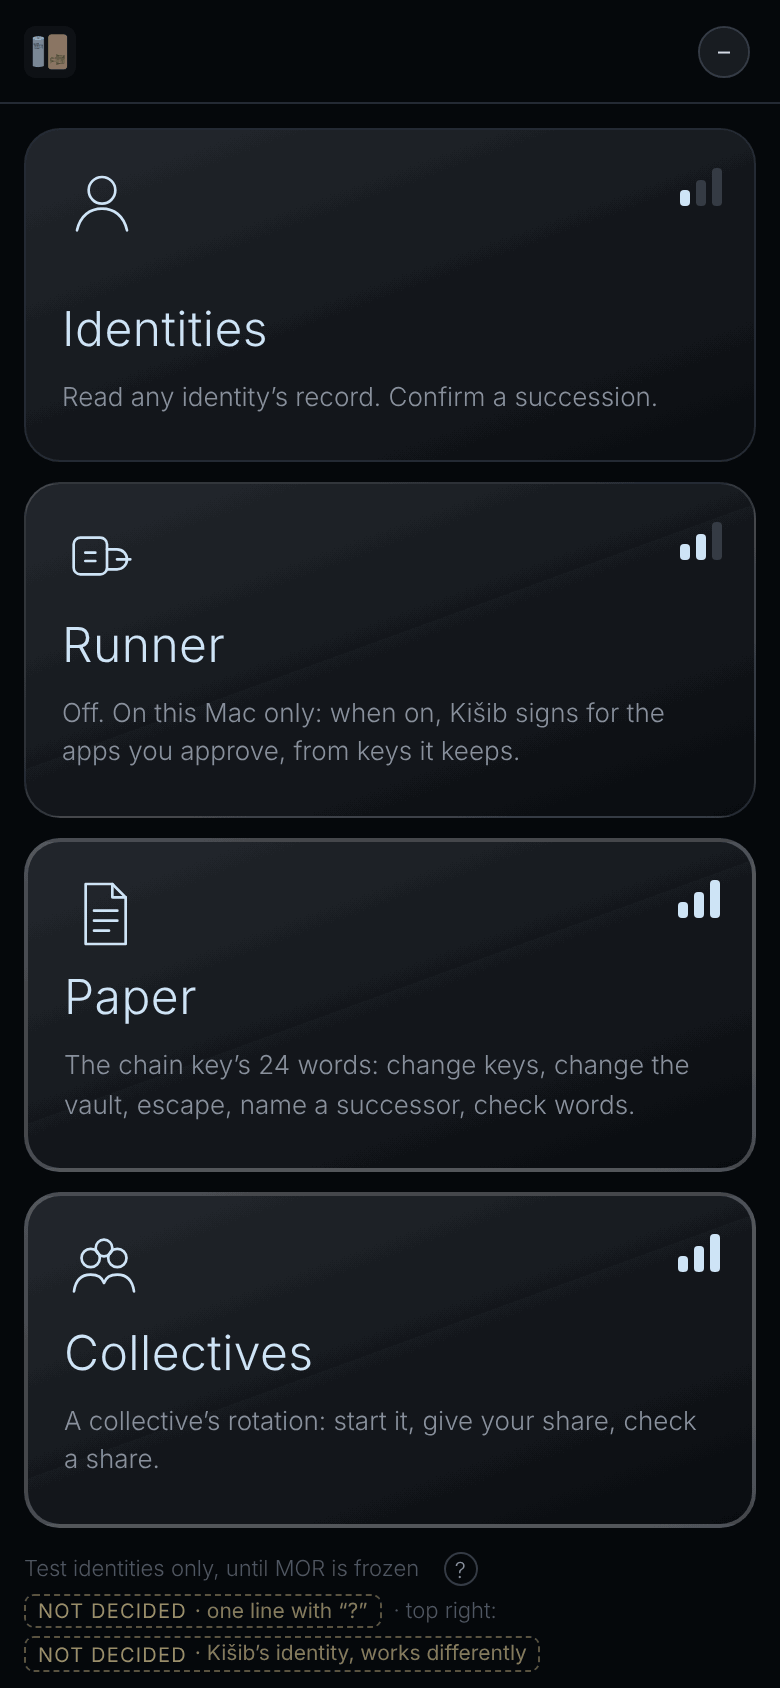
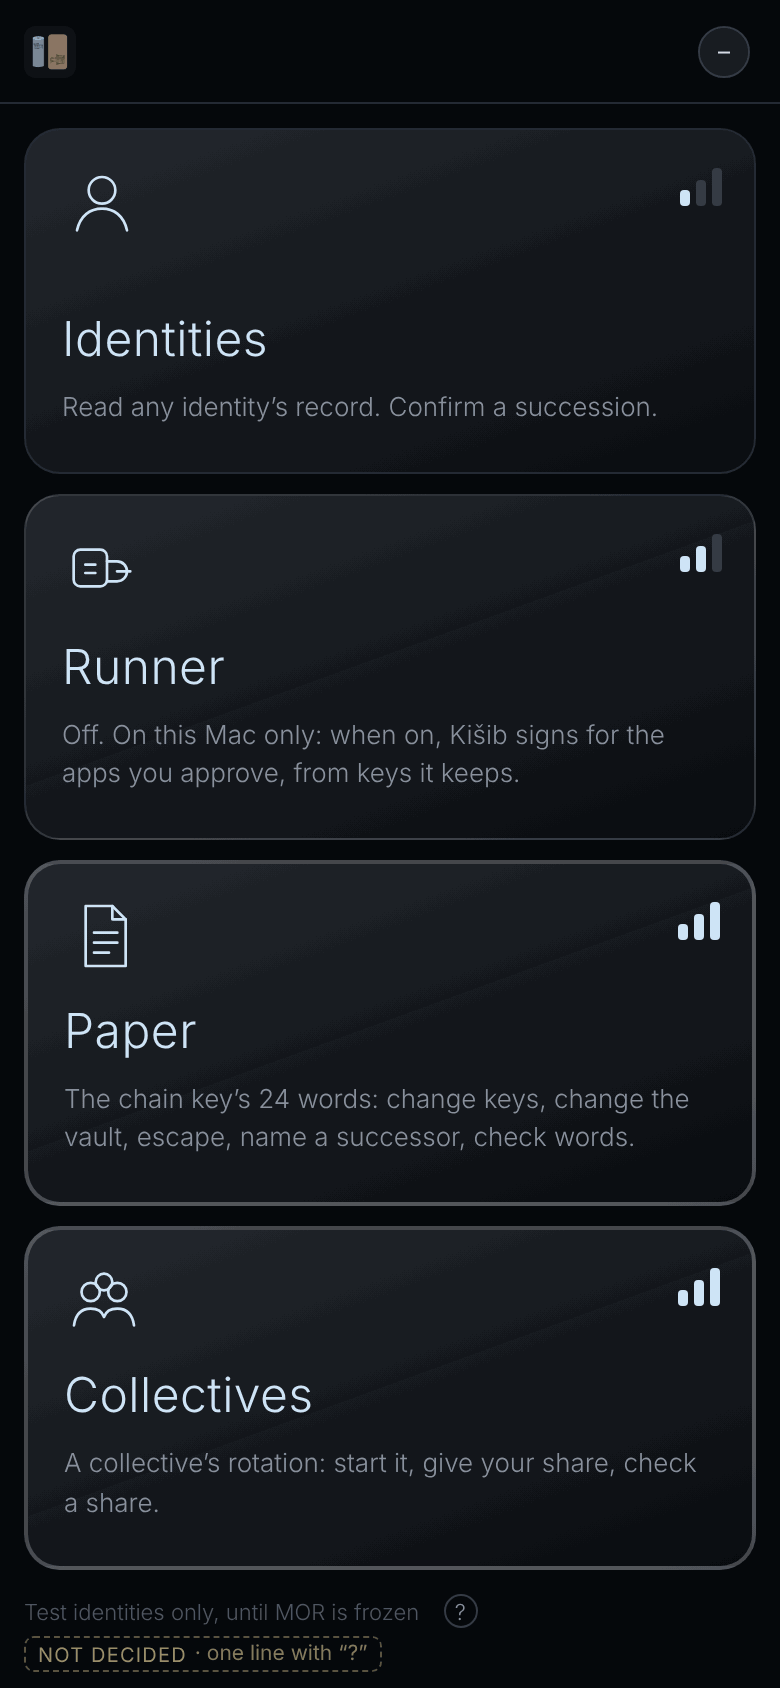
Kišib's top right decided: only the runner holds an ID
Nobody, allegedly, on question 4 of the mockups report (21 October 2026):
"Kišib is different, the only place where an ID can be held is the new
runner." As drawn: "Holds nothing" while the runner is off, the runner's
identities when it is on. The tag on Kišib's home is removed and the report
records the answer.

Claude-Session: https://claude.ai/code/session_01QoHu5J9KBXykGPCHZ7ZQVy

diff --git a/docs/design/mockups/kishib-home.html b/docs/design/mockups/kishib-home.html
@@ -3,5 +3,5 @@
 <title>Kišib: Home: the four tiles (mockup)</title><link rel="stylesheet" href="suite.css"></head>
 <body class="kishib"><div class="win">
 <header class="top"><div class="app"><img src="icons/kishib.png" alt=""><span class="nm">Kišib</span></div><span class="grow"></span><span class="grow"></span><button class="me"><span class="n">Holds nothing</span><span class="s">runner off</span><span class="dot alt">–</span></button></header><div class="home"><div class="tile d1"><svg class="ic" viewBox="0 0 48 48" fill="none" stroke="currentColor" stroke-width="1.6" stroke-linecap="round" stroke-linejoin="round"><circle cx="24" cy="17" r="8"/><path d="M9 41c2-9 8-13 15-13s13 4 15 13"/></svg><span class="dm l1" title="danger 1 of 3"><i></i><i></i><i></i></span><h2>Identities</h2><p>Read any identity’s record. Confirm a succession.</p></div><div class="tile d2"><svg class="ic" viewBox="0 0 48 48" fill="none" stroke="currentColor" stroke-width="1.6" stroke-linecap="round" stroke-linejoin="round"><rect x="7" y="13" width="20" height="22" rx="4"/><path d="M27 20h6a6 6 0 0 1 0 12h-6M33 26h8M14 22h6M14 27h6"/></svg><span class="dm l2" title="danger 2 of 3"><i></i><i></i><i></i></span><h2>Runner</h2><p>Off. On this Mac only: when on, Kišib signs for the apps you approve, from keys it keeps.</p></div><div class="tile d3"><svg class="ic" viewBox="0 0 48 48" fill="none" stroke="currentColor" stroke-width="1.6" stroke-linecap="round" stroke-linejoin="round"><path d="M13 6h16l8 8v28H13z"/><path d="M29 6v8h8M18 22h14M18 28h14M18 34h9"/></svg><span class="dm l3" title="danger 3 of 3"><i></i><i></i><i></i></span><h2>Paper</h2><p>The chain key’s 24 words: change keys, change the vault, escape, name a successor, check words.</p></div><div class="tile d3"><svg class="ic" viewBox="0 0 48 48" fill="none" stroke="currentColor" stroke-width="1.6" stroke-linecap="round" stroke-linejoin="round"><circle cx="16" cy="18" r="5.5"/><circle cx="32" cy="18" r="5.5"/><circle cx="24" cy="12" r="5"/><path d="M6 38c1-7 5-10 10-10s7 2 8 5c1-3 3-5 8-5s9 3 10 10"/></svg><span class="dm l3" title="danger 3 of 3"><i></i><i></i><i></i></span><h2>Collectives</h2><p>A collective’s rotation: start it, give your share, check a share.</p></div></div>
-<div class="home-note">Test identities only, until MOR is frozen <span class="help">?</span> <span class="nd">not decided<b>· one line with “?”</b></span> · top right: <span class="nd">not decided<b>· Kišib’s identity, works differently</b></span></div>
+<div class="home-note">Test identities only, until MOR is frozen <span class="help">?</span> <span class="nd">not decided<b>· one line with “?”</b></span></div>
 </div></body></html>

diff --git a/docs/design/mockups-report.md b/docs/design/mockups-report.md
@@ -80,7 +80,7 @@ Section 2 lists each one. Everything without a tag is the note's *decided* or *a
     - Ummia: Look 1, Discuss 1, Publish 2, Choose 2.
 12. Damgar's four tiles: **Waiting, Account, Lanes, Settings**. The note names three columns, and Settings survives the move of the clock and the node link. *Decided by Nobody, allegedly, 21 October 2026 (question 3): "Yes, Settings as the fourth tile. It's a lot more than what settings offer elsewhere." Tag removed.*
 13. Dub's three lenses: **Following · To you · Relay**, Relay third. *Decided by Nobody, allegedly, 21 October 2026 (question 1): "Yes, but relay should be the third option." Tag removed.*
-14. Kišib's identity at top right: "Holds nothing · runner off" while the runner is off. The runner's identities appear there when it is on.
+14. Kišib's identity at top right: "Holds nothing · runner off" while the runner is off. The runner's identities appear there when it is on. *Decided by Nobody, allegedly, 21 October 2026 (question 4): "Kišib is different, the only place where an ID can be held is the new runner." Tag removed.*
 15. Each column's parts, on every tile opened, are taken from today's functions (one quiet tag at the foot of each column).
 16. The tabs across a selected collective: Act · Members · Money · Keepers · To sign. The note's "sketch" is not in the repository.
 17. The bottom half of the act menu, per app. Rely and Anchor are in every app; Correct appears on one's own acts.
@@ -217,7 +217,7 @@ No function of today was dropped from the pictures. The decided removals are Dub
 1. **Dub's three lenses: are they Following, Relay and To you?** These are today's three filters, renamed only from "Everyone" to "Following". *Lean: yes.* **Answered, 21 October 2026: "Yes, but relay should be the third option."** Drawn as Following · To you · Relay.
 2. **The danger levels in section 2, item 11: right as drawn?** The note accepts danger marks but gives no levels. *Lean: yes. Edubba's levels stay open until you look at the picture.* **Answered, 21 October 2026, the question naming Edubba's levels too: "I think so, yes."** The levels stand as drawn, Edubba's included; this settles the note's open item "Dub's and Edubba's danger marks" for Edubba (Dub has no tiles).
 3. **Damgar's fourth tile: Settings?** It would hold where you are paid, the vault and what you accept. *Lean: yes.* **Answered, 21 October 2026: "Yes, Settings as the fourth tile. It's a lot more than what settings offer elsewhere."**
-4. **Kišib's identity at top right: "Holds nothing" while the runner is off, the runner's identities when it is on?** The note puts an identity top right in every app, and also says Kišib works differently. *Lean: yes.*
+4. **Kišib's identity at top right: "Holds nothing" while the runner is off, the runner's identities when it is on?** The note puts an identity top right in every app, and also says Kišib works differently. *Lean: yes.* **Answered, 21 October 2026: "Kišib is different, the only place where an ID can be held is the new runner."** As drawn: nothing held while the runner is off; the runner's identities when it is on.
 5. **Contesting a vow bought from Dub: in the vow's act menu?** On 17 October you decided contests also run via Dub. Today they live in the Signing tab, which the redesign removes. *Lean: yes, as "Confirm: it was kept" and "Contest it" under the line.*
 6. **The three things proposed dropped: Claude's drafts, the received-items piles, Pay someone.** Drop them, or keep them where they are drawn (Edubba Agents › Queue; Dub's To you lens; Damgar's Waiting)? *Lean: drop Claude's drafts and the piles; keep Pay someone in Damgar, since Damgar is the money hub.*
 7. **The act menu's bottom halves (section 2, item 17): right per app?** *Lean: yes, but Damgar's "Show it in the account" and Ummia's "Discuss it" are the weakest; drop them if they feel invented.*
